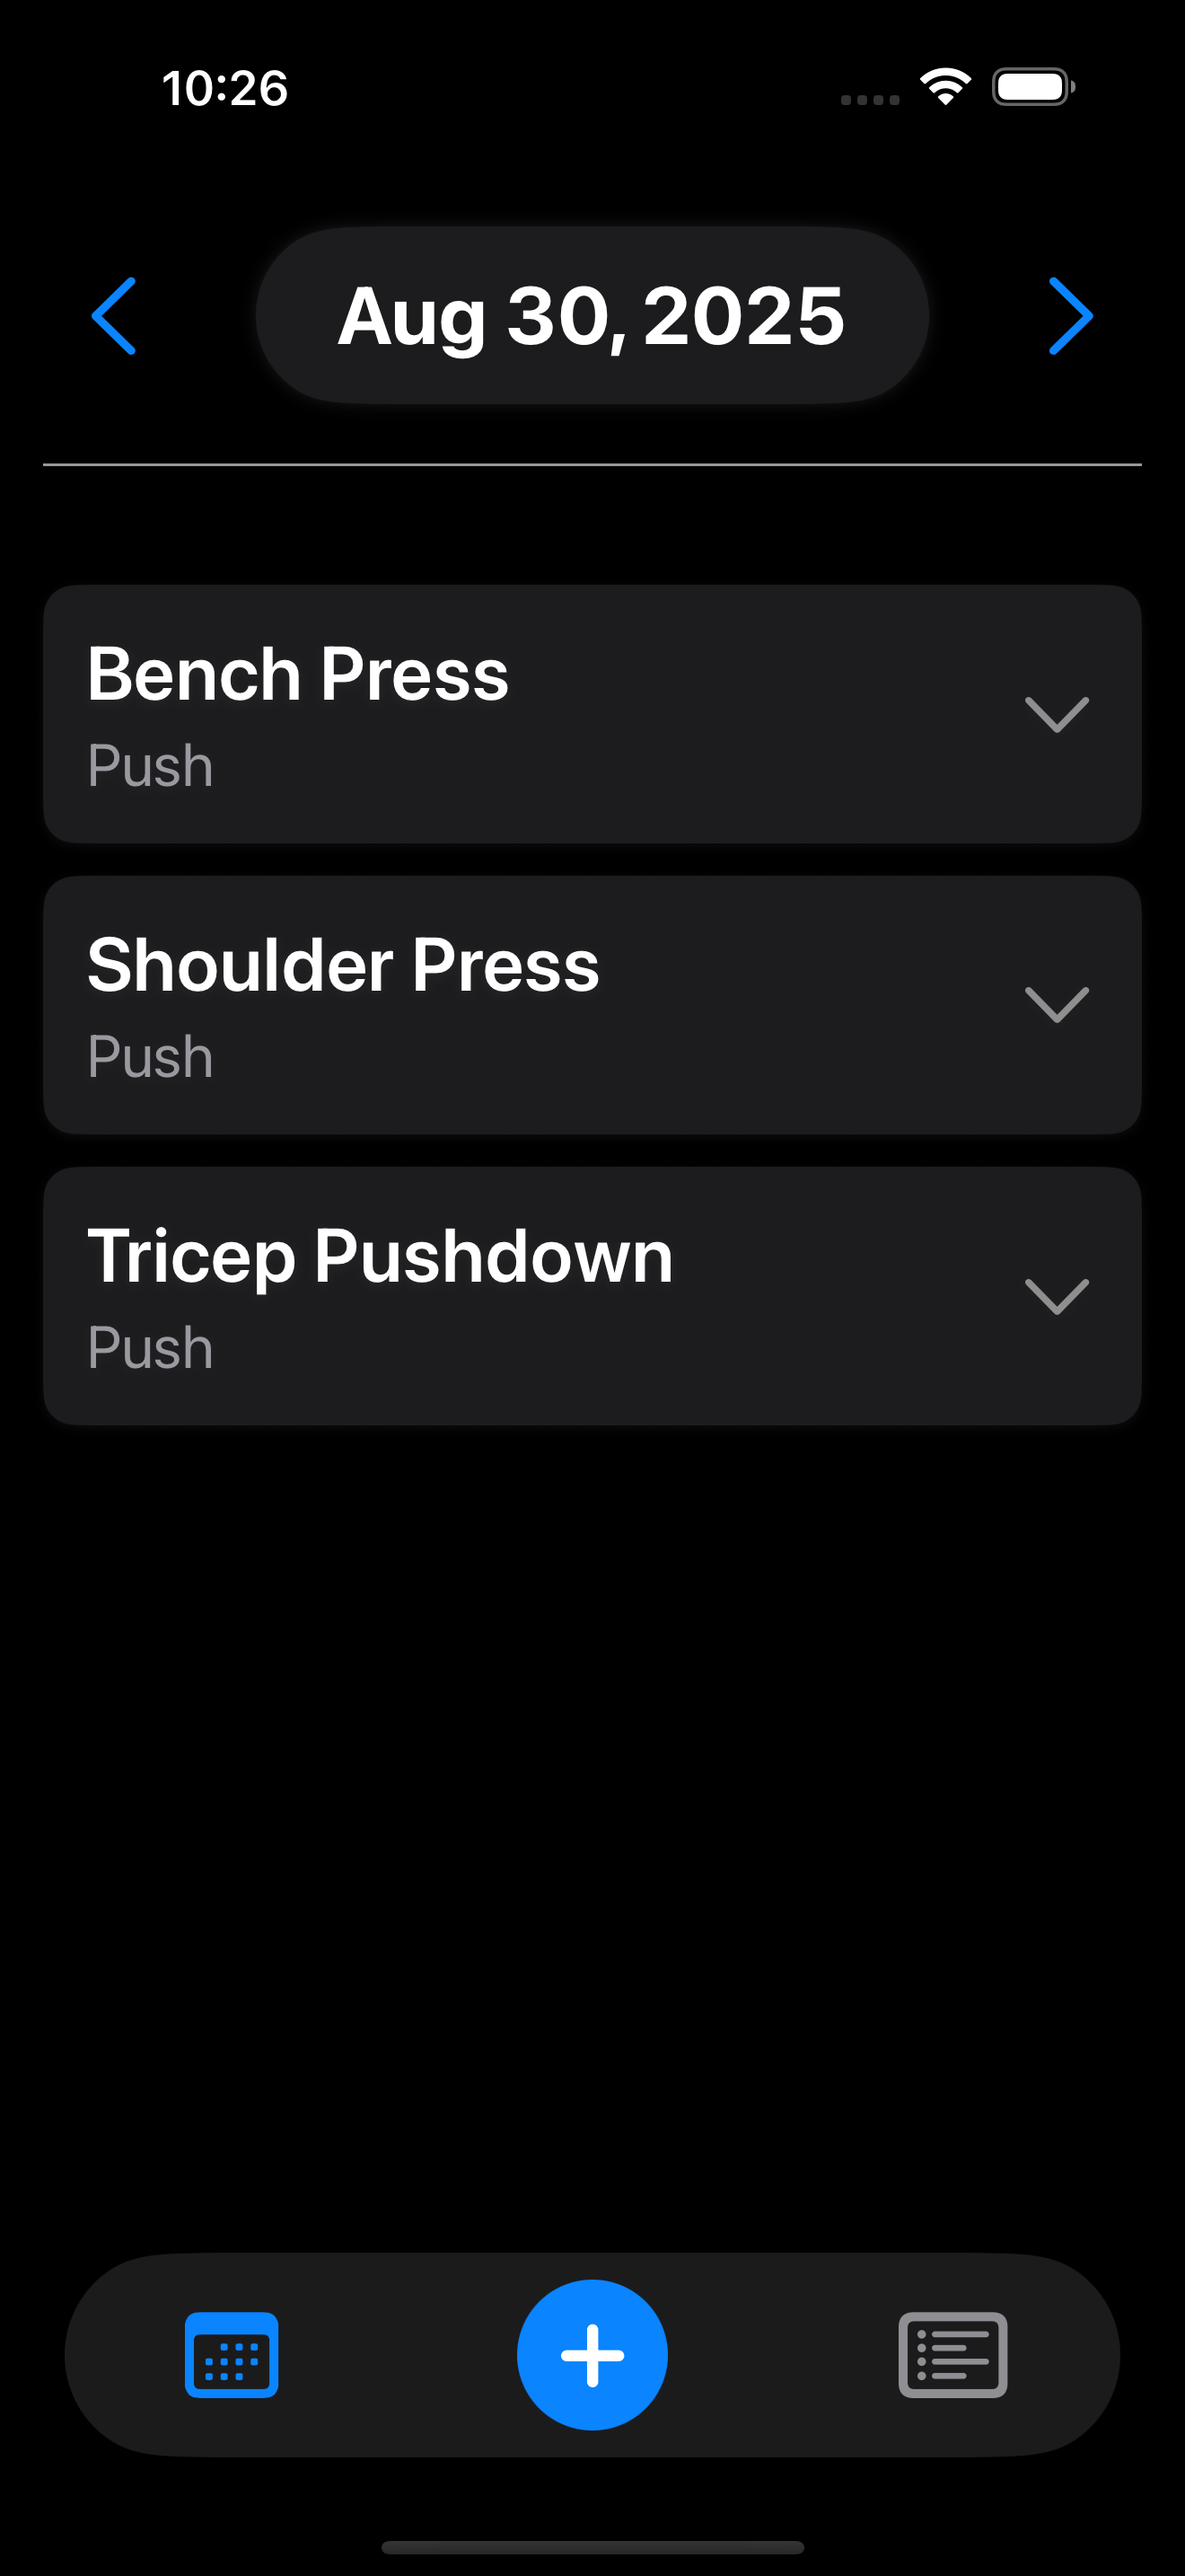
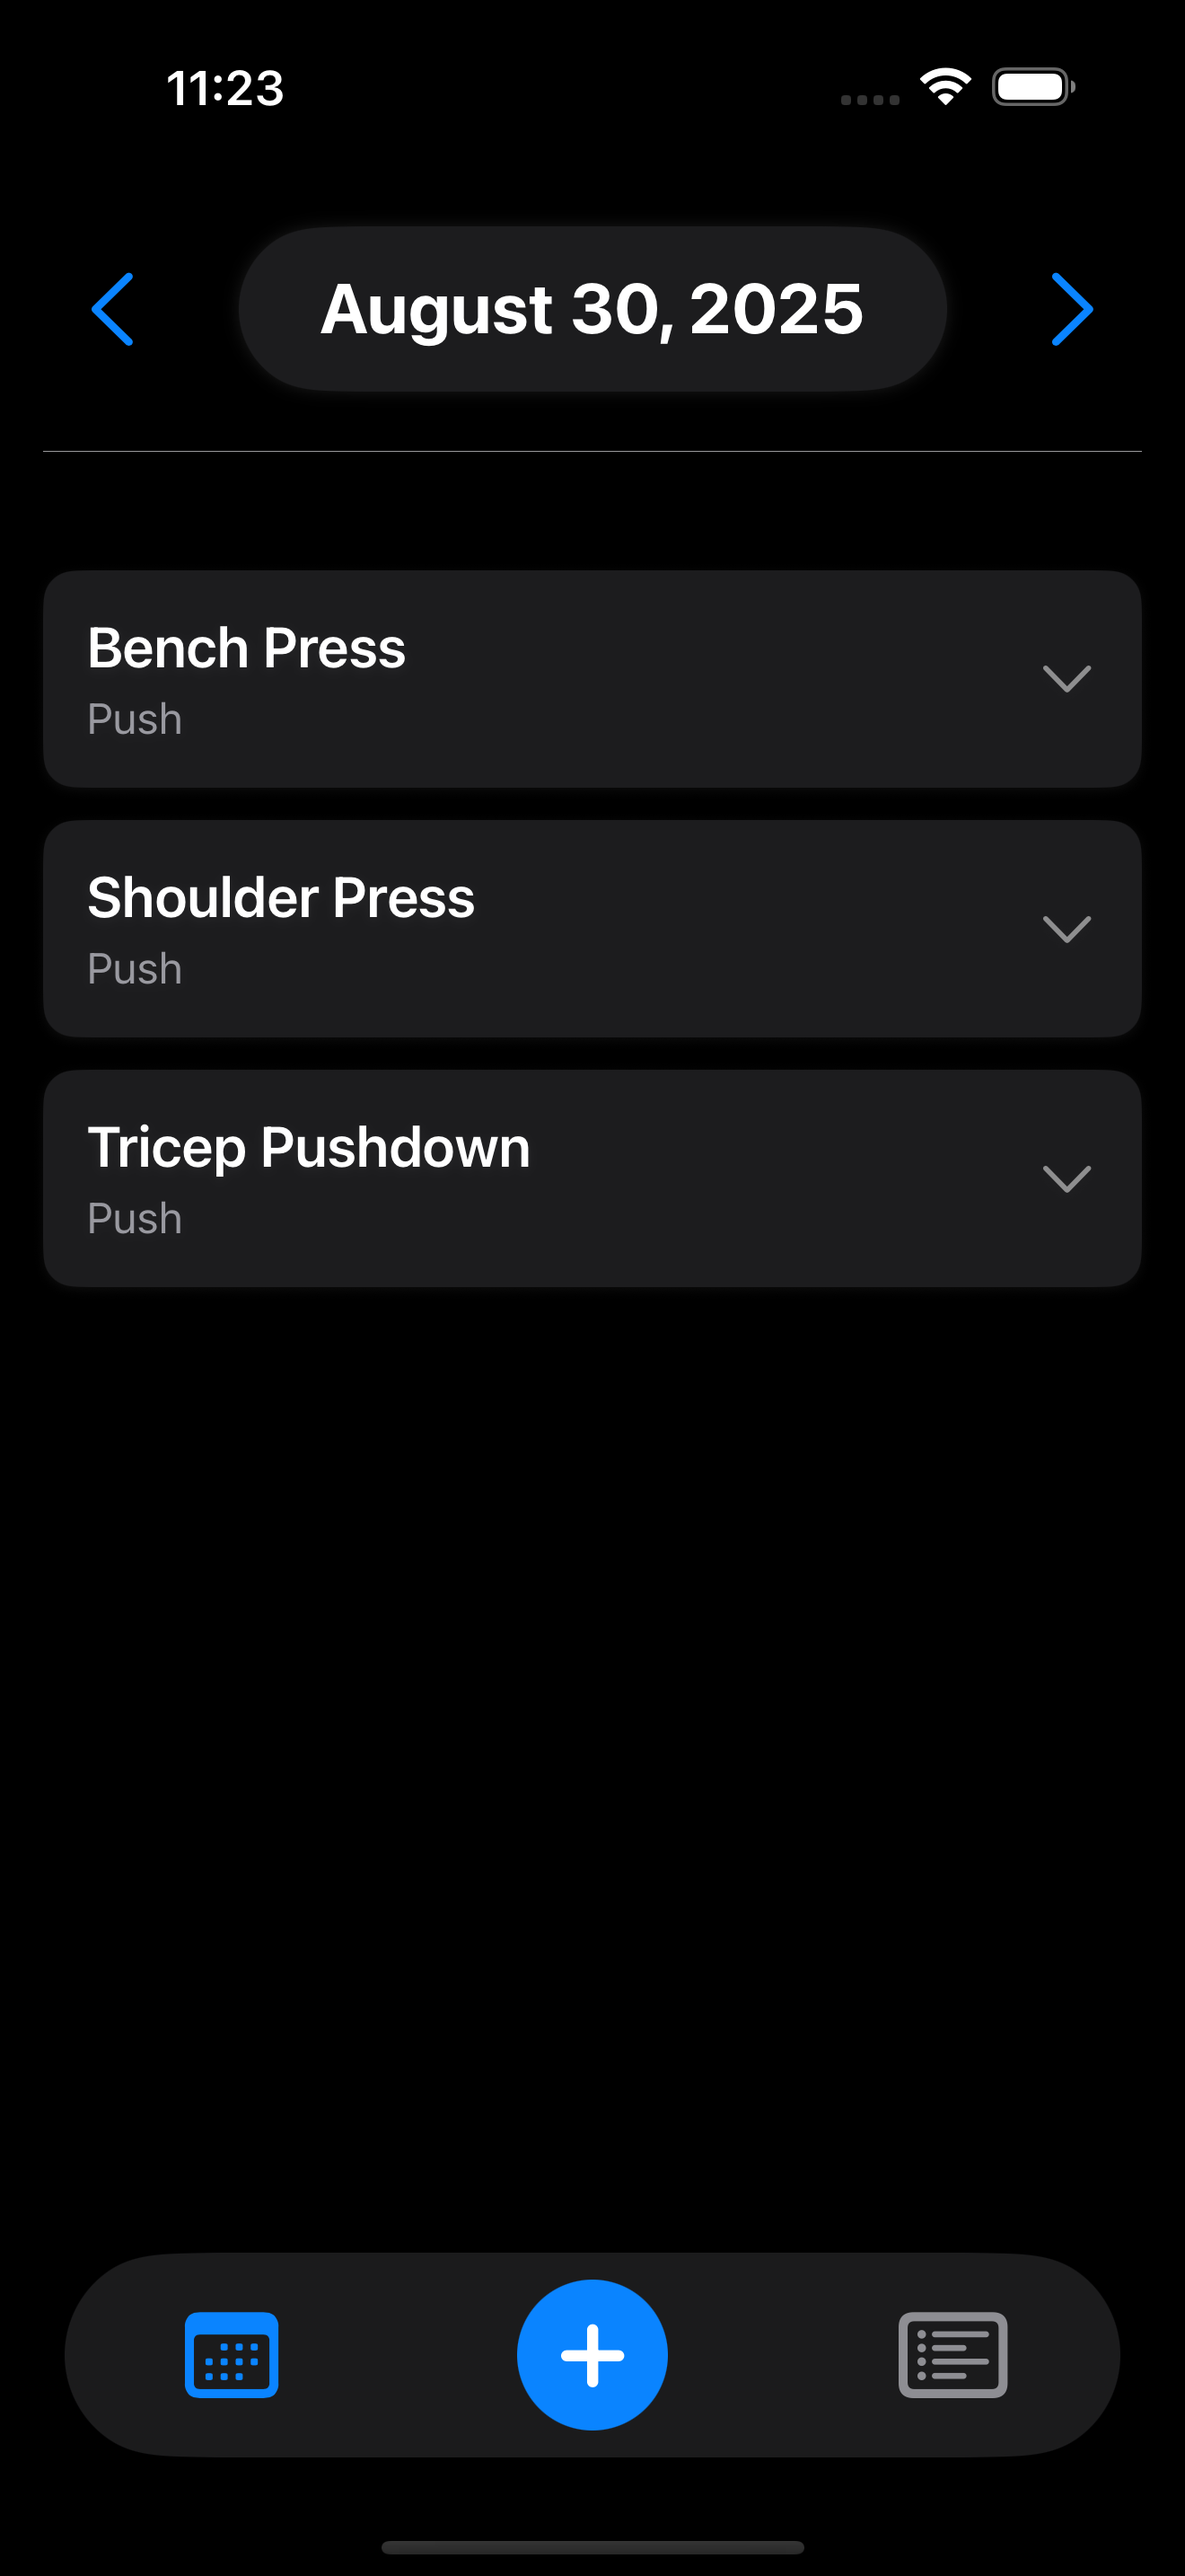
calendar dynamic adjustment

diff --git a/NextSet/HomeView.swift b/NextSet/HomeView.swift
@@ -13,6 +13,7 @@ struct HomeView: View {
     
     @Environment(\.colorScheme) private var colorScheme             // Accesses the current color mode (dark/light)
     @Environment(\.managedObjectContext) private var viewContext    // Accesses the Core Data managed object context
+    @Environment(\.sizeCategory) private var sizeCategory
     
     @Binding var selectedDate: Date // Date for today (or can be selected)
 
@@ -54,7 +55,7 @@ struct HomeView: View {
                             // Previous day button
                             Button { changeDate(by: -1) } label: {
                                 Image(systemName: "chevron.left")
-                                    .font(.title2)
+                                    .font(.title)
                                     .foregroundStyle(Color(.blue))
                             }
                             .buttonStyle(.plain)
@@ -68,7 +69,7 @@ struct HomeView: View {
                                 }
                             } label: {
                                 Text(formattedDate(selectedDate))
-                                    .font(.system(size: 30, weight: .bold))
+                                    .font(.title2.weight(.bold))
                                     .foregroundColor(.primary)
                                     .padding(.horizontal, 30)
                                     .padding(.vertical, 15)
@@ -76,17 +77,18 @@ struct HomeView: View {
                                     .clipShape(Capsule())
                                     .shadow(color: Color.primary.opacity(0.1), radius: 3)
                                     .lineLimit(1)
-                                    .minimumScaleFactor(0.5)
+                                    .minimumScaleFactor(0.5) // Optional: allows the text to shrink if needed
                             }
                             .frame(maxWidth: .infinity)
                             .buttonStyle(.plain)
+
 
                             Spacer()
                             
                             // Next day button
                             Button { changeDate(by: 1) } label: {
                                 Image(systemName: "chevron.right")
-                                    .font(.title2)
+                                    .font(.title)
                                     .foregroundStyle(Color(.blue))
                             }
                             .buttonStyle(.plain)
@@ -244,10 +246,17 @@ struct HomeView: View {
 
     // Formats date into short format
     func formattedDate(_ date: Date) -> String {
-        let formatter = DateFormatter()
-        formatter.dateStyle = .medium
-        return formatter.string(from: date)
-    }
+            let formatter = DateFormatter()
+            
+            // Check if the text size category is large (zoomed-in)
+            if sizeCategory > .extraExtraLarge {
+                formatter.dateStyle = .medium // Use medium format if zoomed-in
+            } else {
+                formatter.dateStyle = .long // Use long format by default
+            }
+            
+            return formatter.string(from: date)
+        }
 
     // Change date by a day
     func changeDate(by days: Int) {
